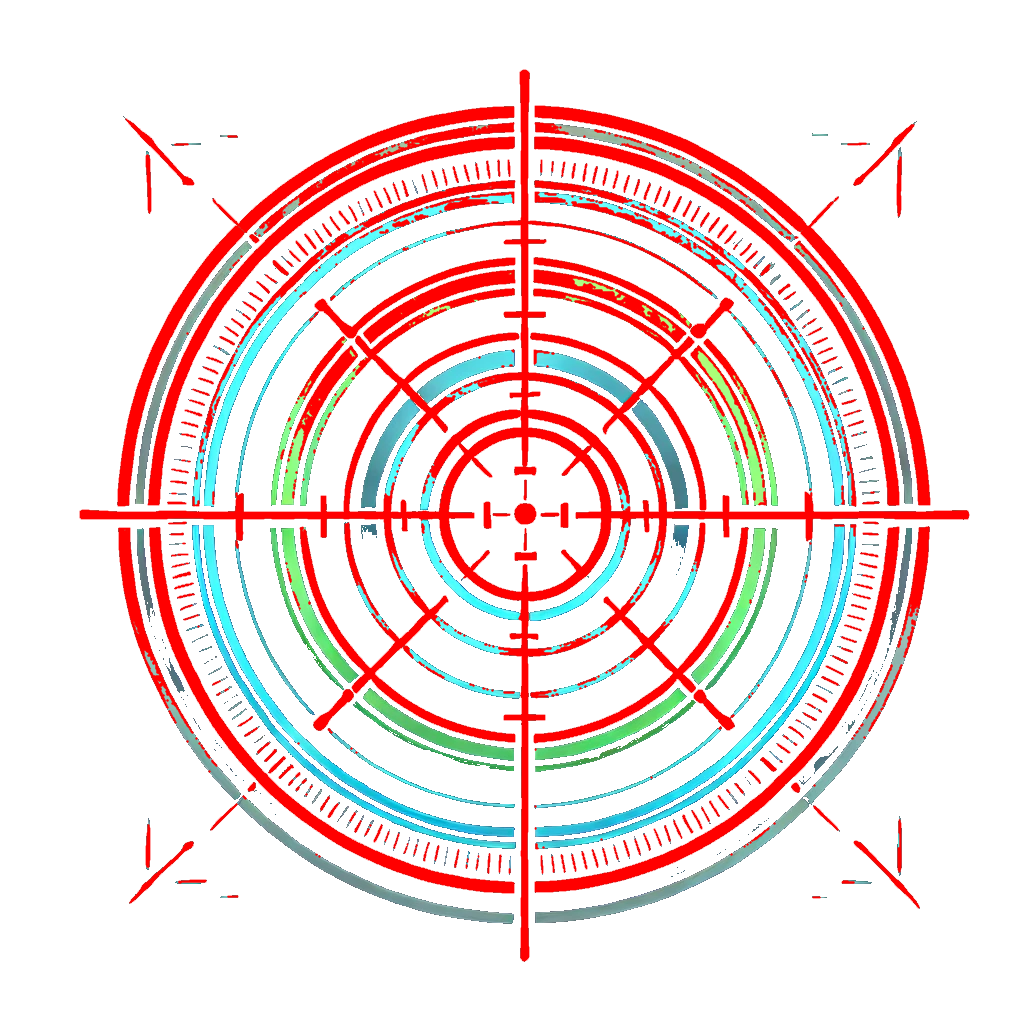
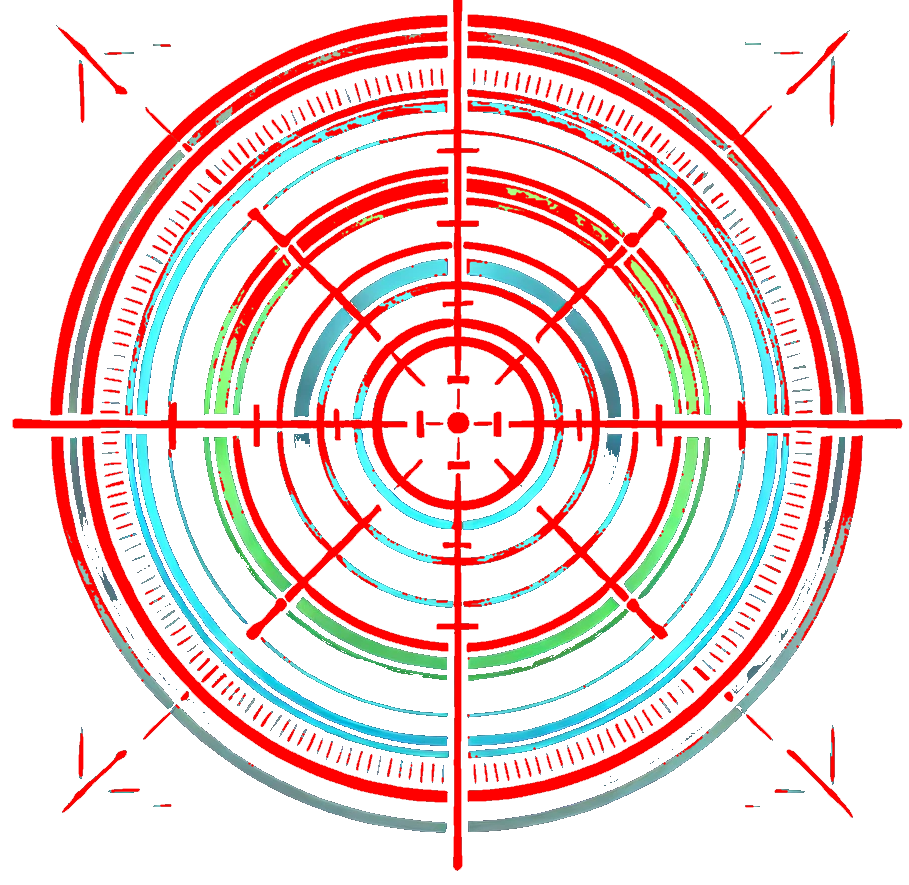
прицел4

diff --git a/index.html b/index.html
@@ -16,8 +16,8 @@
         }
         .crosshair {
             position: absolute;
-            width: 50px;
-            height: 50px;
+            width: 909px;
+            height: 885px;
             background: url('crosshair.png') no-repeat center;
             pointer-events: none;
             transform: translate(-50%, -50%);
